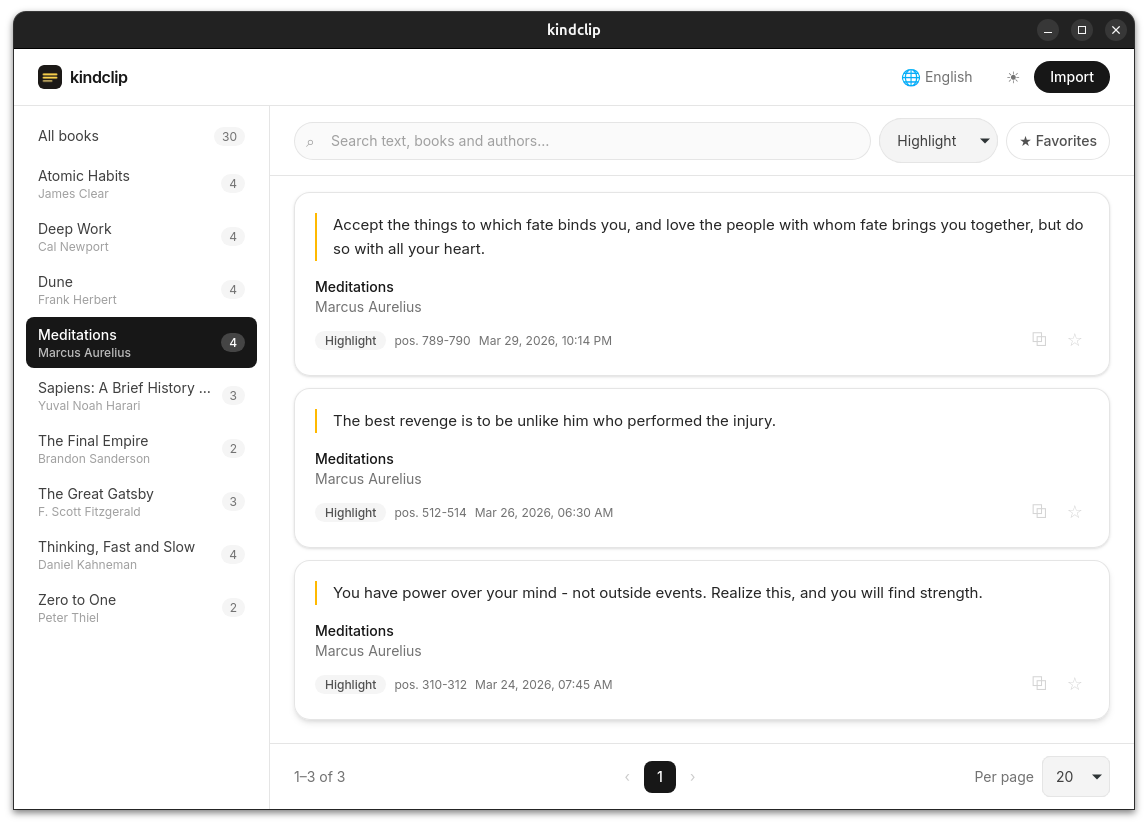
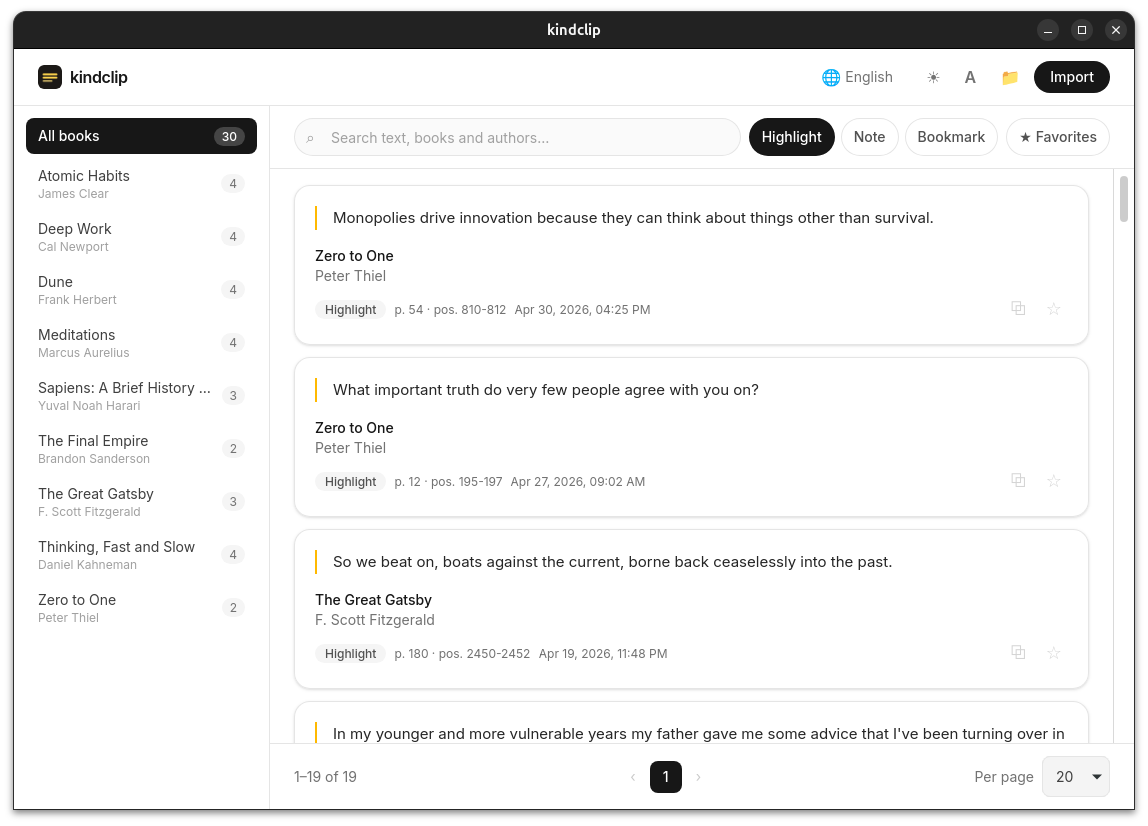
docs(readme): cover V1.2 features and database button

diff --git a/README.md b/README.md
@@ -27,6 +27,8 @@ the clipboard. Native look, tiny binaries, on Windows, Linux and macOS.
 2. Plug in your Kindle over USB and grab `documents/My Clippings.txt`.
 3. Hit **Import**, pick the file, browse. Re-import any time: duplicates are
    detected by hash, and files that previously failed to parse get healed.
+   The 📁 button next to **Import** reveals the database file in your file
+   manager.
 
 ## Features
 
@@ -34,11 +36,15 @@ the clipboard. Native look, tiny binaries, on Windows, Linux and macOS.
   localized dates (en, es, de, fr, it, pt) and Highlight / Note / Bookmark
   kinds — including modern Spanish firmware wording («Tu resaltado»).
 - **Multi-file library** with content-hash dedupe across imports.
-- **Filters**: full-text search over content, title and author, plus book, kind
-  and favorites-only filters. Configurable **pagination** (20/50/100).
+- **Filters**: full-text search over content, title and author, plus book,
+  multi-select kind chips and favorites-only filters. Configurable
+  **pagination** (20/50/100) and a **font-size control** (S/M/L) for
+  accessibility.
 - **Favorites** in SQLite and a **copy button** on every highlight and note.
-- **UI in 5 languages** (es, en, fr, de, it — Spanish by default) and a
-  **system/light/dark theme**, both persisted.
+- **UI in 5 languages** (es, en, fr, de, it — Spanish by default),
+  a **system/light/dark theme** and the font size above, all persisted.
+- A header button reveals **`kindclip.db` in the file manager**, and long
+  book titles in the sidebar show the full title on hover.
 - Bundled **Inter** typeface, custom icons and a minimal macOS-style UI over
   the native window frame.
 
@@ -89,19 +95,22 @@ cargo fmt --all -- --check
 src/                        # Svelte 5 + Tailwind v4 frontend
   lib/
     db.ts                   # SQL port (plugin-sql): queries + import orchestration
+    db-location.ts          # Reveal kindclip.db in the file manager (tested)
+    font.ts                 # S/M/L font-size scale with persistence (tested)
     importer.ts             # Import flow: pick → parse → persist
     library.ts              # Pagination, debounce, formatting (tested)
     i18n.ts                 # es/en/fr/de/it dictionaries (parity tested)
     theme.ts                # system/light/dark theme
     types.ts                # Shared frontend/backend contracts
-  components/               # BookSidebar, ClippingCard, Pagination, ...
+  components/               # BookSidebar, ClippingCard, Pagination, FontScaleToggle, ...
   assets/icon.png           # App icon, also shown in the header
 src-tauri/
   src/
     lib.rs                  # Migrations + plugin and command registration
     commands.rs             # parse_clippings_file (reads, SHA-256 hashes, parses)
+                          # + db_file_path (absolute path of kindclip.db)
   migrations/001_init.sql   # Schema: files, books, clippings, favorites
-  capabilities/             # Least-privilege permissions (sql, dialog, clipboard write)
+  capabilities/             # Least-privilege permissions (sql, dialog, clipboard write, opener)
 crates/clippings-parser/    # Pure My Clippings.txt parser (no Tauri deps)
 odd/tasks/kindclip.md       # Decision and task log of the project
 ```
@@ -116,6 +125,8 @@ The SQL plugin resolves `sqlite:kindclip.db` to the standard per-OS config dir
 - macOS: `~/Library/Application Support/app.kindclip/kindclip.db`
 
 To wipe the library and re-import from scratch, just delete that file.
+You can also open it straight from the app: the 📁 button next to **Import**
+reveals it in your file manager.
 Quick inspection:
 ```bash
 python3 -c "import sqlite3, os; con=sqlite3.connect(os.path.expanduser('~/.config/app.kindclip/kindclip.db')); print(con.execute('SELECT COUNT(*) FROM clippings').fetchone())"
